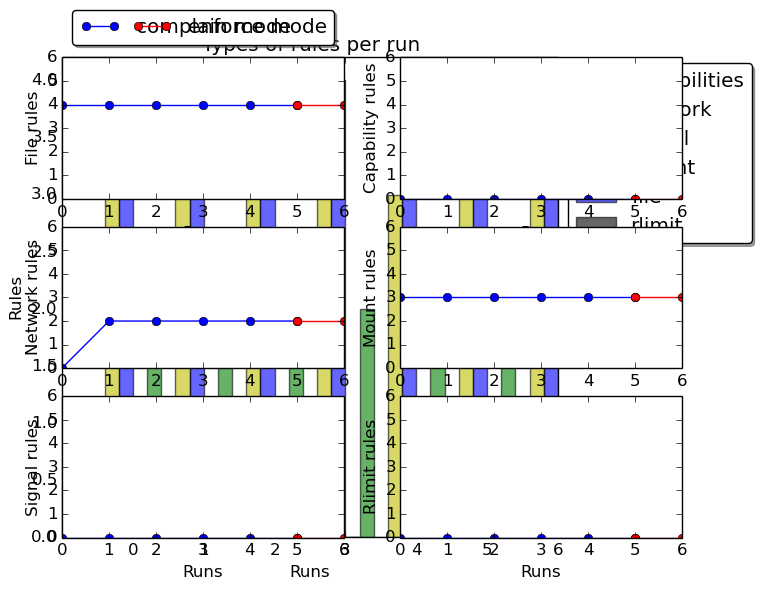
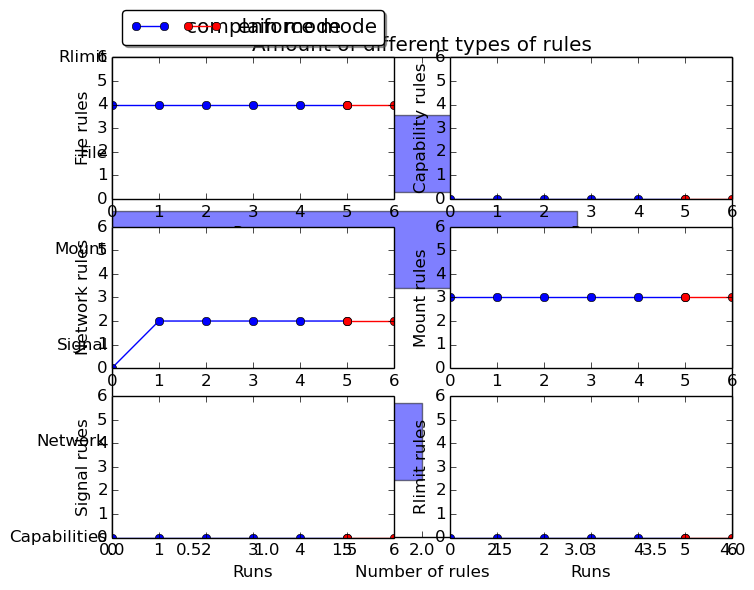
New bar plots only for final profile

diff --git a/Benchmarks/media-streaming/Parser/metrics/plot_type_rules.py b/Benchmarks/media-streaming/Parser/metrics/plot_type_rules.py
@@ -123,41 +123,38 @@ enforce = 5 #Read this from bash script
 fig = plt.figure()
 
 ##Bars
-fig, ax = plt.subplots()
 
 #index = np.arange(n_groups)
-bar_width = 0.2
+bar_width = 0.3
 
-opacity = 0.6
-ind = np.arange(start = 0, stop = ((num_of_runs*2)+0.1), step = 2)
-ind = np.arange(num_of_runs)
-rects1 = ax.bar(ind, capabilities, bar_width, alpha=opacity, color='r', label='capabilities')
-rects2 = ax.bar(ind + 0.2, network, bar_width, alpha=opacity, color='g', label='network')
-rects3 = ax.bar(ind + 0.4, signal, bar_width, alpha=opacity, color='m', label='signal')
-rects4 = ax.bar(ind + 0.6, mount, bar_width, alpha=opacity, color='y', label='mount')
-rects5 = ax.bar(ind + 0.8, file_rules, bar_width, alpha=opacity, color='b', label='file')
-rects6 = ax.bar(ind + 1, rlimit, bar_width, alpha=opacity, color='k', label='rlimit')
+objects = ('Capabilities', 'Network', 'Signal', 'Mount', 'File', 'Rlimit')
+y_pos = np.arange(len(objects))
+ 
+barlist = []
+barlist.append(capabilities[-1])
+barlist.append(network[-1])
+barlist.append(signal[-1])
+barlist.append(mount[-1])
+barlist.append(file_rules[-1])
+barlist.append(rlimit[-1])
 
-ax.set_xlabel('Runs')
-ax.set_ylabel(r'Rules')
-ax.set_title('Types of rules per run')
-ax.set_xticks(ind+1)
-ax.set_xticklabels(x_Axis)
-ax.set_ylim(0,max_value+0.2)
+plt.barh(y_pos, barlist, align='center', alpha=0.5)
+plt.yticks(y_pos, objects)
+plt.xlabel('Number of rules')
+plt.title('Amount of different types of rules')
+plt.show()
 
-box = ax.get_position()
-ax.set_position([box.x0, box.y0, box.width * 0.8, box.height])
+#box = ax.get_position()
+#ax.set_position([box.x0, box.y0, box.width * 0.8, box.height])
 
 # Put a legend below current axis
-ax.legend(loc='center left', bbox_to_anchor=(1, 0.8),
-                          fancybox=True, shadow=True)
+#ax.legend(loc='center left', bbox_to_anchor=(1, 0.8),
+#                          fancybox=True, shadow=True)
 
-plt.show()
-output = "../../parser_output/Bar_types_" + service + ".png"
+#plt.show()
+output = "../../parser_output/Barfinal_" + service + ".png"
 plt.savefig(output,bbox_inches="tight")
 
-#fig.tight_layout()
-#plt.show()
 
 #Complain and enforce different colour                                 
 complain_enforce = []
